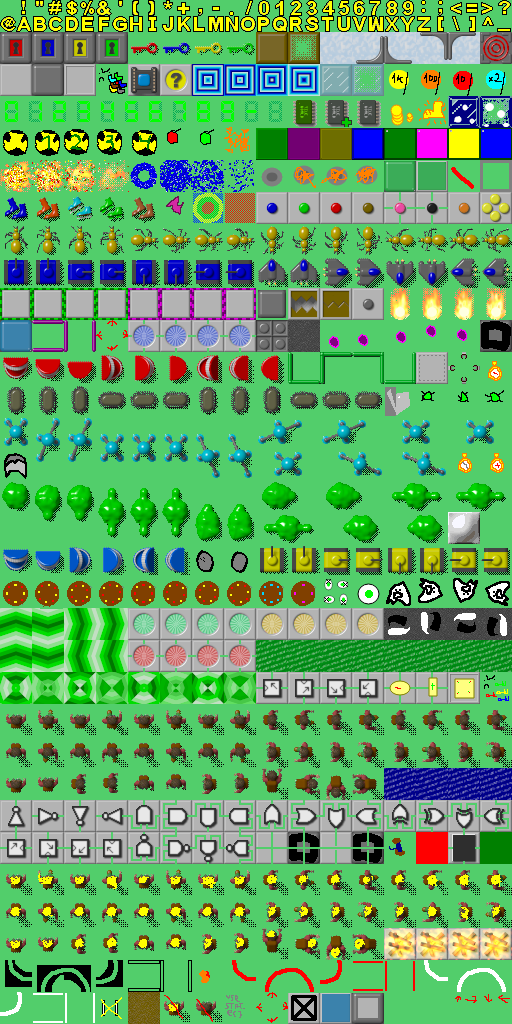
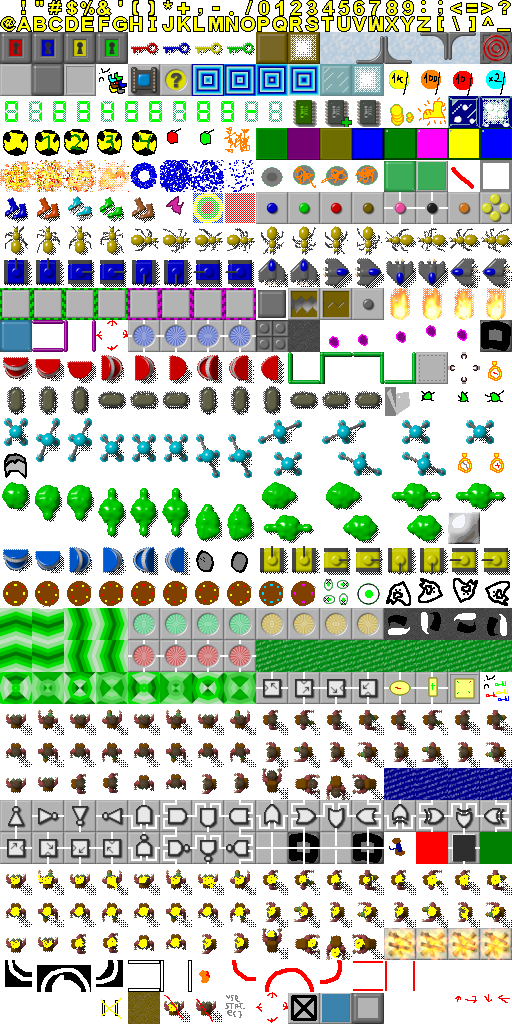
Make the tileset actually be transparent

diff --git a/gamePlayer/src/visuals.ts b/gamePlayer/src/visuals.ts
@@ -26,11 +26,13 @@ export function removeBackground(image: HTMLImage): HTMLImage {
 	;[ctx.canvas.width, ctx.canvas.height] = [image.width, image.height]
 	ctx.drawImage(image, 0, 0)
 	const rawData = ctx.getImageData(0, 0, image.width, image.height)
+	const maskColor = rawData.data.slice(0, 4)
 	for (let i = 0; i < rawData.data.length; i += 4)
 		if (
-			rawData.data[i] === rawData.data[0] &&
-			rawData.data[i + 1] === rawData.data[1] &&
-			rawData.data[i + 2] === rawData.data[2]
+			rawData.data[i] === maskColor[0] &&
+			rawData.data[i + 1] === maskColor[1] &&
+			rawData.data[i + 2] === maskColor[2] &&
+			rawData.data[i + 3] === maskColor[3]
 		)
 			rawData.data[i + 3] = 0
 
